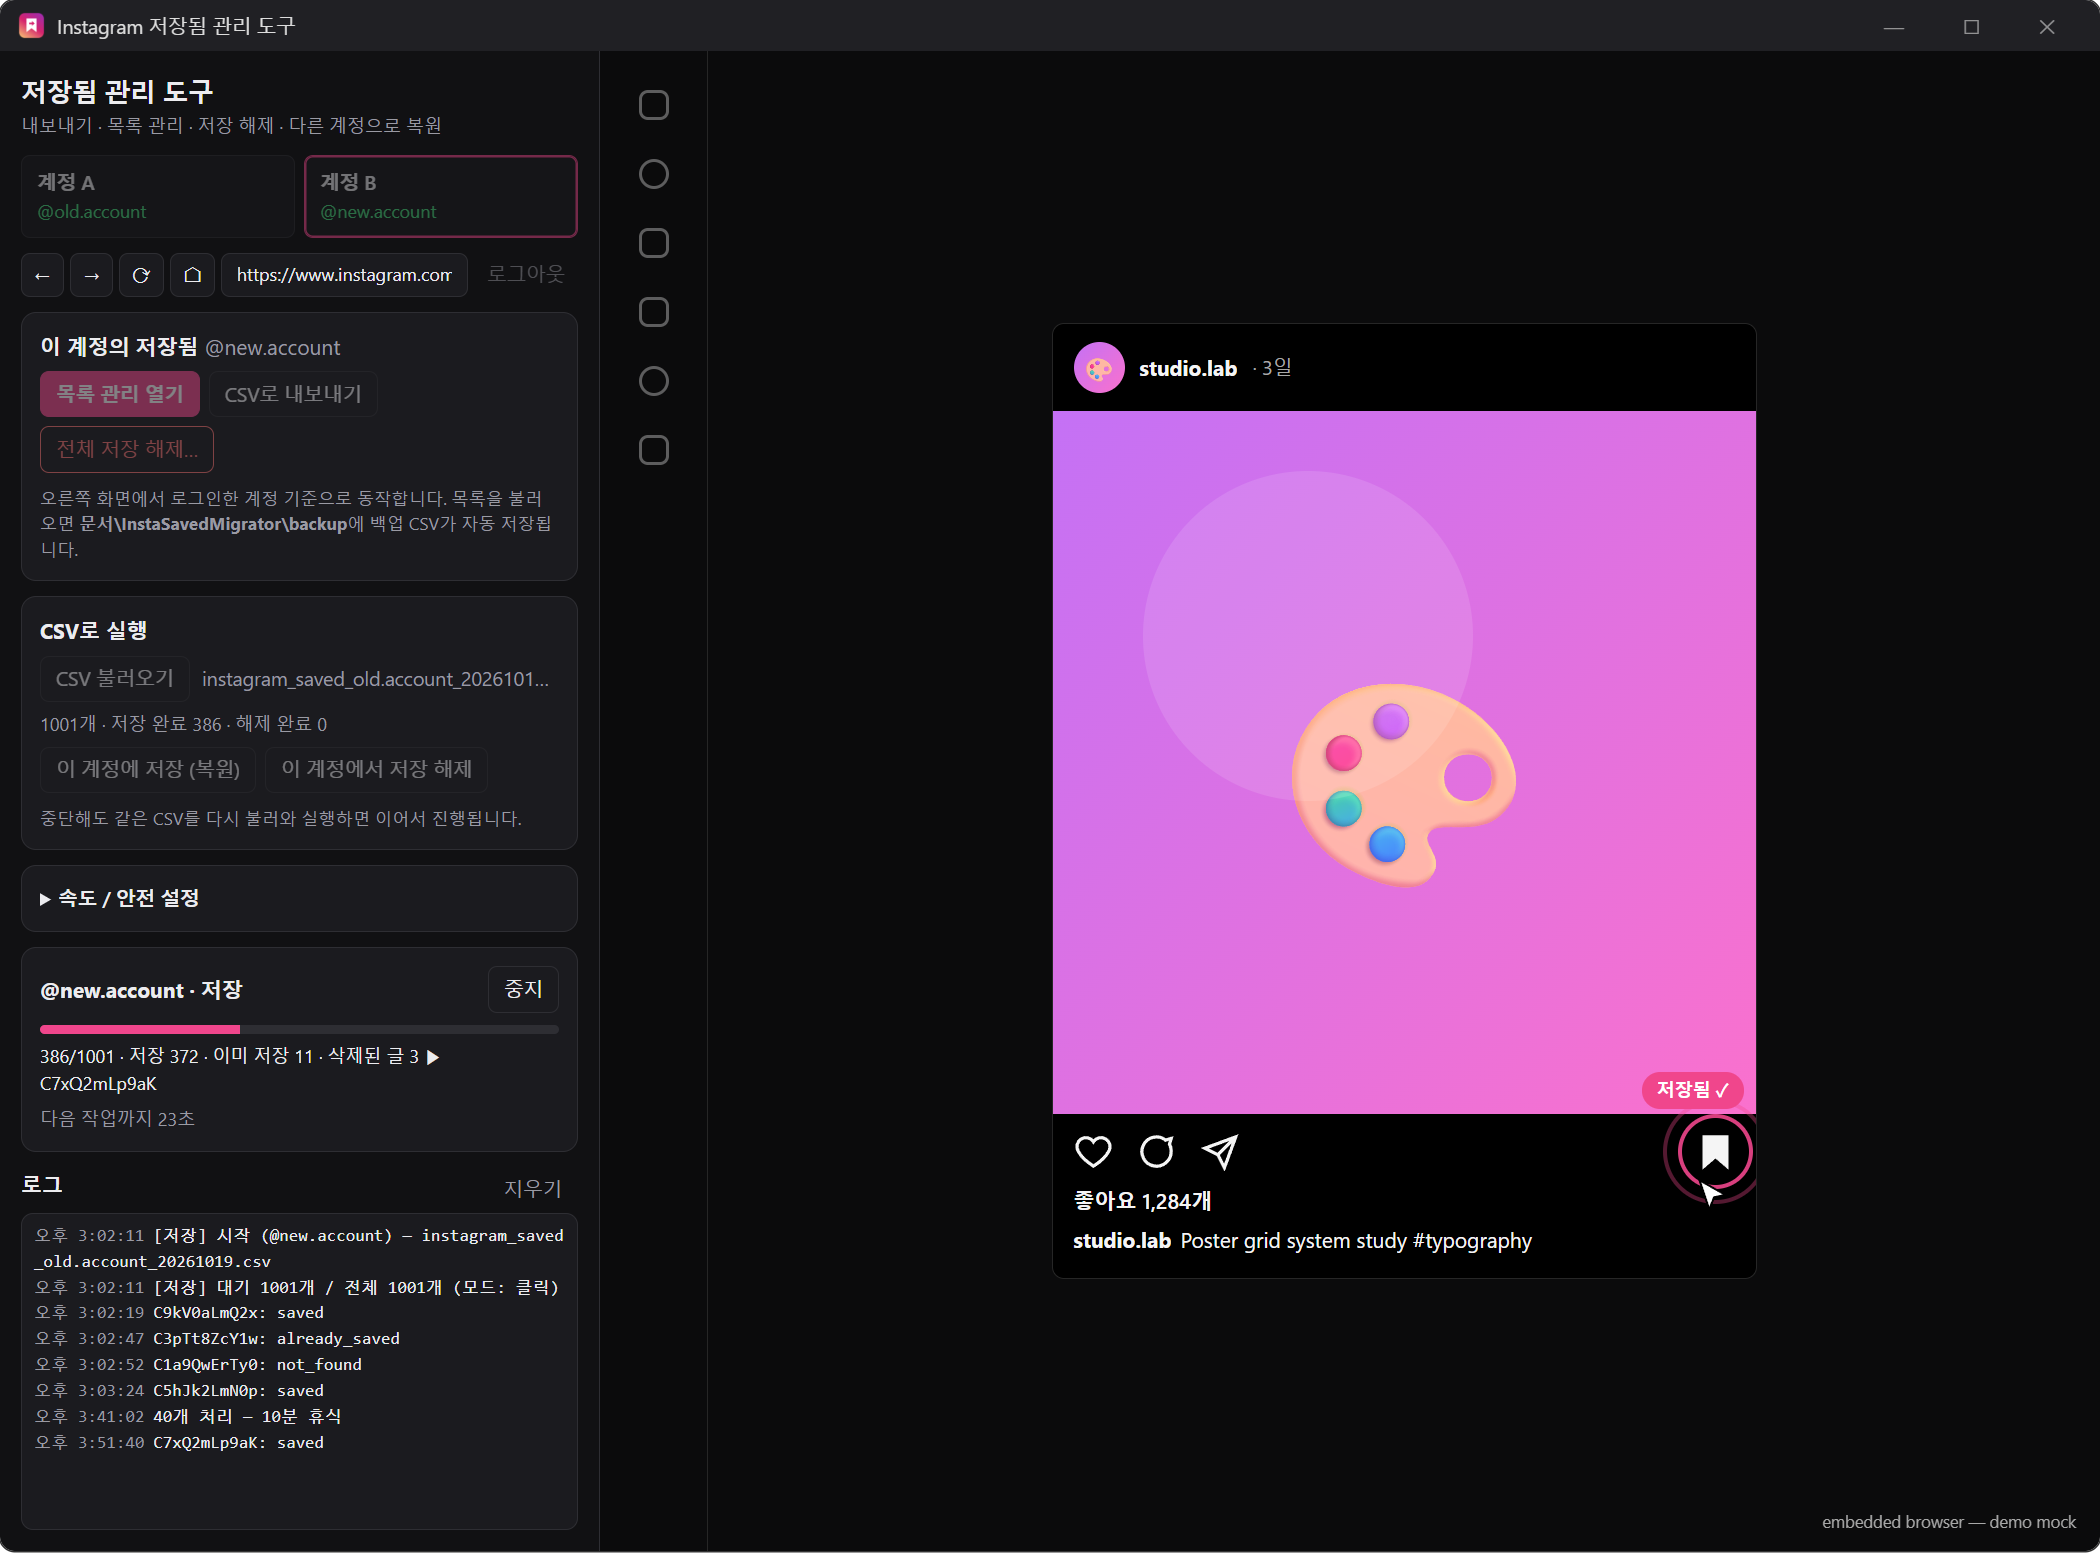
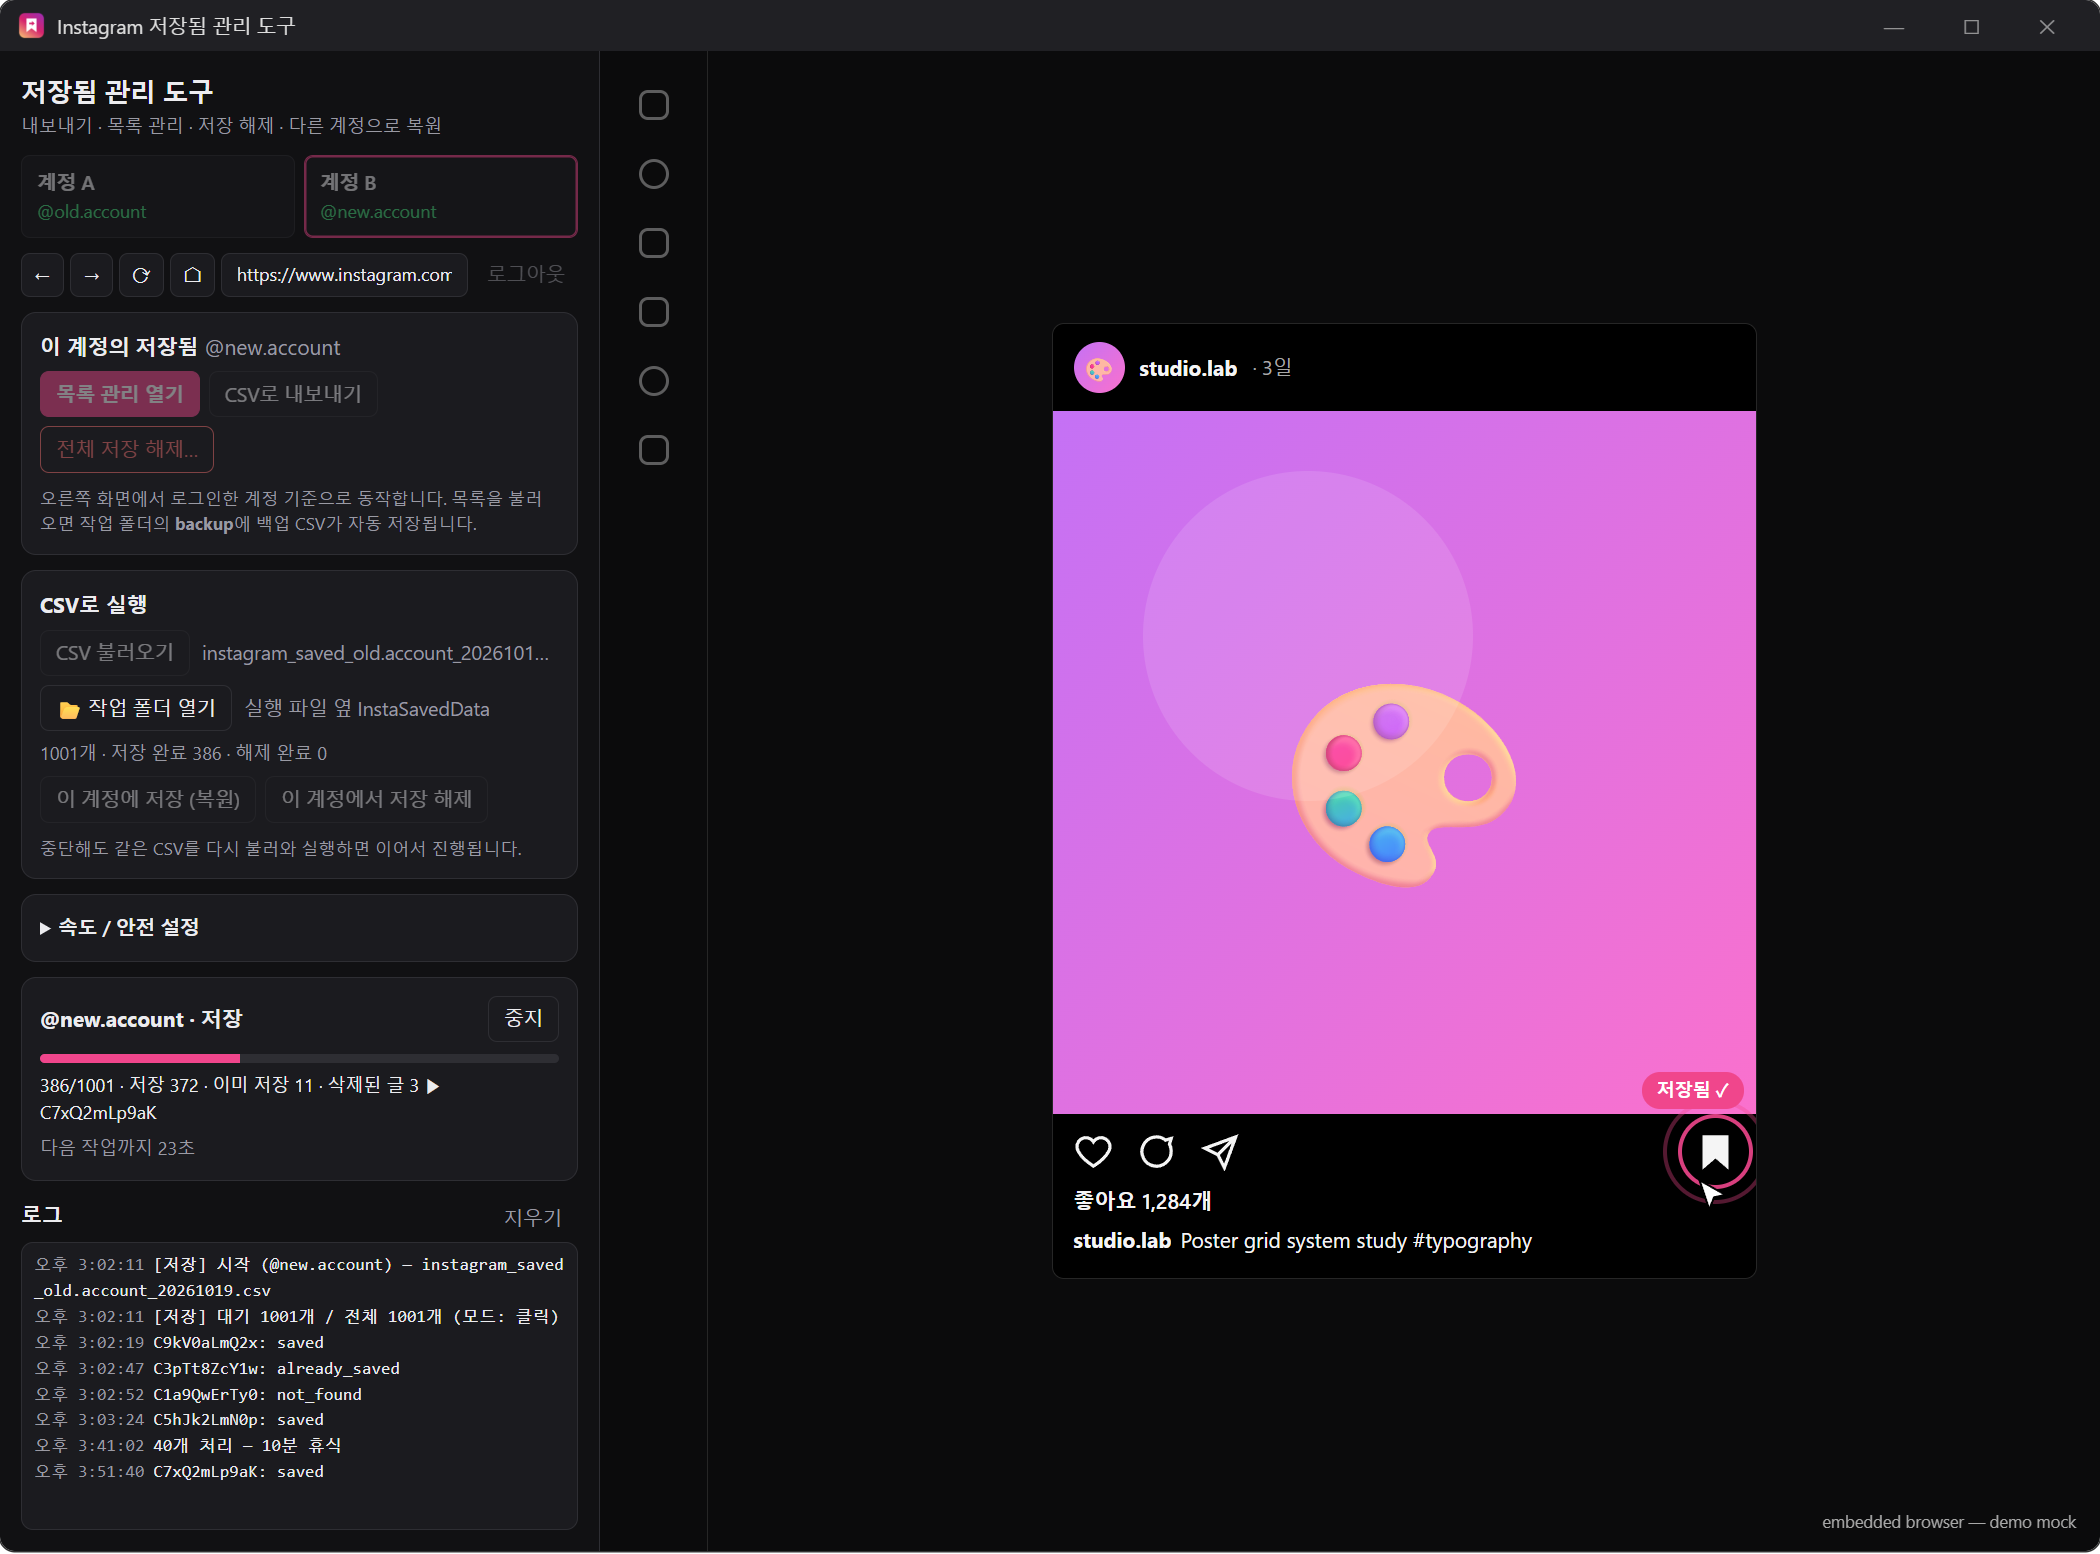
Keep work files in an InstaSavedData folder next to the app
Backups, selection job lists and exports used to go to
Documents\InstaSavedMigrator, which was hard to find.

- Store them in InstaSavedData beside the portable .exe (using
  PORTABLE_EXECUTABLE_DIR, since the portable build runs from a temp
  folder), the install folder, or the project folder in development;
  fall back to Documents\InstaSavedData if that isn't writable
- Default the export/open dialogs to that folder (exports/ subfolder)
- Add an "Open work folder" button and show the full path in the panel
- ISM_USER_DATA env var overrides the session folder for testing
- Update README and screenshots

Changed region(s): [[0.0, 0.3707, 0.2786, 0.9575], [0.031, 0.3089, 0.2167, 0.3398]]

diff --git a/src/main.js b/src/main.js
@@ -7,7 +7,7 @@ const { fetchSaved, writeSavedCsv } = require('./saved');
 const { runBatch, previewCsv, ACTIONS, initApiStore } = require('./runner');
 
 // 개발 실행(npm start)과 빌드된 exe가 같은 로그인 세션을 쓰도록 데이터 경로 고정
-app.setPath('userData', path.join(app.getPath('appData'), 'insta-saved-migrator'));
+app.setPath('userData', process.env.ISM_USER_DATA || path.join(app.getPath('appData'), 'insta-saved-migrator')); // ISM_USER_DATA: 테스트용 분리 경로
 
 // Instagram이 "Electron" UA를 다르게 취급하지 않도록 일반 Chrome UA로 보이게 함
 const appToken = app.getName().replace(/[.*+?^${}()|[\]\\]/g, '\\$&');
@@ -154,8 +154,27 @@ function stamp(withTime = true) {
   return withTime ? `${day}_${p(d.getHours())}${p(d.getMinutes())}${p(d.getSeconds())}` : day;
 }
 
+// 작업 파일(백업·작업 목록·내보내기)은 실행 파일 옆 InstaSavedData 폴더에 모은다.
+// portable exe는 임시 폴더에 풀려 실행되므로 원래 exe 위치(PORTABLE_EXECUTABLE_DIR)를 쓴다.
+let dataDir = null;
+function resolveDataDir() {
+  const base = process.env.PORTABLE_EXECUTABLE_DIR
+    || (app.isPackaged ? path.dirname(process.execPath) : app.getAppPath());
+  const candidates = [path.join(base, 'InstaSavedData'), path.join(app.getPath('documents'), 'InstaSavedData')];
+  for (const dir of candidates) {
+    try {
+      fs.mkdirSync(dir, { recursive: true });
+      const probe = path.join(dir, '.write-test');
+      fs.writeFileSync(probe, '');
+      fs.unlinkSync(probe);
+      return dir;
+    } catch { /* 쓰기 불가(예: Program Files) → 다음 후보 */ }
+  }
+  return candidates[candidates.length - 1];
+}
+
 function workDir(sub) {
-  const dir = path.join(app.getPath('documents'), 'InstaSavedMigrator', sub);
+  const dir = sub ? path.join(dataDir, sub) : dataDir;
   fs.mkdirSync(dir, { recursive: true });
   return dir;
 }
@@ -266,13 +285,14 @@ handle('logout', async (key) => {
 });
 handle('stop', () => { if (job) { job.stopped = true; log('중지 요청됨 — 현재 단계가 끝나면 멈춥니다.'); } });
 handle('reveal', (p) => shell.showItemInFolder(p));
+handle('open-data-dir', () => shell.openPath(workDir()));
 handle('manager', (open) => setManager(!!open));
 
 handle('export', async (key) => {
   const st = await requireLogin(key);
   const { canceled, filePath } = await dialog.showSaveDialog(win, {
     title: '저장됨 CSV 저장 위치',
-    defaultPath: path.join(app.getPath('documents'), `instagram_saved_${st.username || st.uid}_${stamp(false)}.csv`),
+    defaultPath: path.join(workDir('exports'), `instagram_saved_${st.username || st.uid}_${stamp(false)}.csv`),
     filters: [{ name: 'CSV', extensions: ['csv'] }],
   });
   if (canceled || !filePath) return null;
@@ -294,7 +314,7 @@ handle('list-fetch', (key) => fetchList(key));
 handle('list-open-csv', async () => {
   const { canceled, filePaths } = await dialog.showOpenDialog(win, {
     title: '목록으로 볼 CSV 선택',
-    defaultPath: app.getPath('documents'),
+    defaultPath: workDir(),
     filters: [{ name: 'CSV', extensions: ['csv'] }],
     properties: ['openFile'],
   });
@@ -305,7 +325,7 @@ handle('list-open-csv', async () => {
 handle('save-csv', async ({ rows, name }) => {
   const { canceled, filePath } = await dialog.showSaveDialog(win, {
     title: '선택 항목 CSV 저장',
-    defaultPath: path.join(app.getPath('documents'), name || `instagram_saved_selection_${stamp()}.csv`),
+    defaultPath: path.join(workDir('exports'), name || `instagram_saved_selection_${stamp()}.csv`),
     filters: [{ name: 'CSV', extensions: ['csv'] }],
   });
   if (canceled || !filePath) return null;
@@ -317,7 +337,7 @@ handle('save-csv', async ({ rows, name }) => {
 handle('load-csv', async () => {
   const { canceled, filePaths } = await dialog.showOpenDialog(win, {
     title: '실행할 CSV 선택',
-    defaultPath: app.getPath('documents'),
+    defaultPath: workDir(),
     filters: [{ name: 'CSV', extensions: ['csv'] }],
     properties: ['openFile'],
   });
@@ -361,6 +381,7 @@ handle('unsave-all', async ({ key, opts }) => {
 
 // ---------- App ----------
 app.whenReady().then(() => {
+  dataDir = resolveDataDir();
   initApiStore(path.join(app.getPath('userData'), 'api-endpoints.json'));
   win = new BrowserWindow({
     width: 1480,
@@ -379,6 +400,7 @@ app.whenReady().then(() => {
   win.on('resize', layout);
   win.webContents.on('did-finish-load', () => {
     send('active', active);
+    send('data-dir', dataDir);
     refreshStatus('a');
     refreshStatus('b');
   });

diff --git a/src/ui/index.html b/src/ui/index.html
@@ -41,7 +41,7 @@
         <button id="btn-export" class="lockable">CSV로 내보내기</button>
         <button id="btn-unsave-all" class="danger lockable">전체 저장 해제…</button>
       </div>
-      <p class="hint">오른쪽 화면에서 로그인한 계정 기준으로 동작합니다. 목록을 불러오면 <b>문서\InstaSavedMigrator\backup</b>에 백업 CSV가 자동 저장됩니다.</p>
+      <p class="hint">오른쪽 화면에서 로그인한 계정 기준으로 동작합니다. 목록을 불러오면 작업 폴더의 <b>backup</b>에 백업 CSV가 자동 저장됩니다.</p>
     </section>
 
     <section class="card">
@@ -49,6 +49,10 @@
       <div class="row">
         <button id="btn-load" class="lockable">CSV 불러오기</button>
         <span id="csv-name" class="muted ellipsis">선택된 파일 없음</span>
+      </div>
+      <div class="row">
+        <button id="btn-data-dir" title="백업·작업 목록·내보내기 파일이 모이는 폴더">📂 작업 폴더 열기</button>
+        <span id="data-dir" class="muted ellipsis">실행 파일 옆 InstaSavedData</span>
       </div>
       <div class="stat muted" id="csv-stat"></div>
       <div class="btns">

diff --git a/src/ui/app.js b/src/ui/app.js
@@ -108,6 +108,7 @@ api.on('job-progress', (p) => {
 });
 api.on('countdown', ({ sec, label }) => { $$('.countdown').forEach((e) => { e.textContent = sec > 0 ? `${label} ${sec}초` : ''; }); });
 api.on('csv-file', showCsvFile);
+api.on('data-dir', (dir) => { $('#data-dir').textContent = dir; $('#data-dir').title = dir; });
 
 function showCsvFile({ path, summary }) {
   csvLoaded = true;
@@ -134,6 +135,7 @@ $$('.stop').forEach((b) => b.addEventListener('click', () => call('stop')));
 $('#clear-log').addEventListener('click', () => { $('#log').innerHTML = ''; });
 
 $('#btn-export').addEventListener('click', () => call('export', active));
+$('#btn-data-dir').addEventListener('click', () => call('open-data-dir'));
 $('#btn-unsave-all').addEventListener('click', async () => {
   const res = await call('unsave-all', { key: active, opts: opts() });
   if (res) applyBatchResult(active, 'unsave', res);

diff --git a/README.md b/README.md
@@ -173,7 +173,7 @@ The number of cards per row follows the window width. When you resize, the rows 
 - **선택 항목 저장** (_Save selected_). This is how you move a selection to the other account.
 - **선택 항목 CSV 저장** (_Export selected to CSV_)
 
-Each selection run is written to `Documents\InstaSavedMigrator\jobs\…csv`, so you can resume it later with **CSV 불러오기** (_Load CSV_).
+Each selection run is written to `InstaSavedData\jobs\…csv` next to the app, so you can resume it later with **CSV 불러오기** (_Load CSV_). **📂 작업 폴더 열기** (_Open work folder_) opens that folder.
 
 <img src="docs/images/manager-fetching.png" alt="Loading the list: progress shown at the top" width="100%" />
 
@@ -218,7 +218,7 @@ flowchart LR
     B["Embedded browser<br/>Account B session"]
   end
   IG[("instagram.com")]
-  Disk[("CSV · progress · backups<br/>Documents\\InstaSavedMigrator")]
+  Disk[("CSV · progress · backups<br/>InstaSavedData (next to the exe)")]
 
   UI <-- IPC --> Main
   Main -- "run in page / mouse events" --> A
@@ -249,10 +249,13 @@ sequenceDiagram
 
 ## 📁 Files the app creates
 
+Work files go into an **`InstaSavedData` folder next to the app**: beside the `.exe` for the portable build, or in the install folder for the installer. If that folder isn't writable, `Documents\InstaSavedData` is used instead. The **📂 작업 폴더 열기** (_Open work folder_) button opens it, and the panel shows its full path.
+
 | Location | What |
 |---|---|
-| `Documents\InstaSavedMigrator\backup\saved_<account>_<time>.csv` | Written **every time** a list is loaded. This is your safety net |
-| `Documents\InstaSavedMigrator\jobs\<save\|unsave>_<account>_<time>.csv` | The list of posts for a selection run. Load it again to resume |
+| `InstaSavedData\backup\saved_<account>_<time>.csv` | Written **every time** a list is loaded. This is your safety net |
+| `InstaSavedData\jobs\<save\|unsave>_<account>_<time>.csv` | The list of posts for a selection run. Load it again to resume |
+| `InstaSavedData\exports\` | Default location for **Export to CSV** and **Export selected** |
 | `<csv>.restore-progress.json` / `<csv>.unsave-progress.json` | Per-post progress used for resuming |
 | `<csv>.restore-result.csv` / `<csv>.unsave-result.csv` | Final report with status, message, and time for each post |
 | `%APPDATA%\insta-saved-migrator\` | Browser sessions (your logins) and remembered API addresses. **Log out** in the app to clear a session |
@@ -524,7 +527,7 @@ Automating actions may go against Instagram's Terms of Use and can lead to tempo
 - **선택 항목 저장**: 선택한 것을 다른 계정으로 옮길 때 씁니다
 - **선택 항목 CSV 저장**
 
-선택 작업은 매번 `문서\InstaSavedMigrator\jobs\…csv`로 저장되므로, 나중에 **CSV 불러오기**로 이어서 할 수 있습니다.
+선택 작업은 매번 앱 옆 `InstaSavedData\jobs\…csv`로 저장되므로, 나중에 **CSV 불러오기**로 이어서 할 수 있습니다. **📂 작업 폴더 열기**로 그 폴더를 바로 열 수 있습니다.
 
 <img src="docs/images/manager-fetching.png" alt="목록 불러오는 중: 상단에 진행 상황 표시" width="100%" />
 
@@ -569,7 +572,7 @@ flowchart LR
     B["내장 브라우저<br/>계정 B 세션"]
   end
   IG[("instagram.com")]
-  Disk[("CSV · 진행 상황 · 백업<br/>문서\\InstaSavedMigrator")]
+  Disk[("CSV · 진행 상황 · 백업<br/>InstaSavedData (exe 옆)")]
 
   UI <-- IPC --> Main
   Main -- "페이지 안 실행 / 마우스 이벤트" --> A
@@ -600,10 +603,13 @@ sequenceDiagram
 
 ## 📁 앱이 만드는 파일
 
+작업 파일은 **앱 옆의 `InstaSavedData` 폴더**에 모입니다. portable은 `.exe`가 있는 폴더, 설치형은 설치 폴더 기준입니다. 그 폴더에 쓸 수 없으면 `문서\InstaSavedData`를 씁니다. 패널의 **📂 작업 폴더 열기** 버튼으로 바로 열 수 있고, 패널에 전체 경로도 표시됩니다.
+
 | 위치 | 내용 |
 |---|---|
-| `문서\InstaSavedMigrator\backup\saved_<계정>_<시각>.csv` | 목록을 불러올 **때마다** 자동 저장. 안전장치입니다 |
-| `문서\InstaSavedMigrator\jobs\<save\|unsave>_<계정>_<시각>.csv` | 선택 작업 목록. 다시 불러오면 이어서 진행 |
+| `InstaSavedData\backup\saved_<계정>_<시각>.csv` | 목록을 불러올 **때마다** 자동 저장. 안전장치입니다 |
+| `InstaSavedData\jobs\<save\|unsave>_<계정>_<시각>.csv` | 선택 작업 목록. 다시 불러오면 이어서 진행 |
+| `InstaSavedData\exports\` | **CSV로 내보내기**, **선택 항목 CSV 저장**의 기본 저장 위치 |
 | `<csv>.restore-progress.json` / `<csv>.unsave-progress.json` | 이어하기용 게시물별 진행 상황 |
 | `<csv>.restore-result.csv` / `<csv>.unsave-result.csv` | 게시물별 상태·메시지·시각을 담은 최종 보고서 |
 | `%APPDATA%\insta-saved-migrator\` | 브라우저 세션(로그인 정보)과 기억한 API 주소. 앱의 **로그아웃** 버튼으로 세션 삭제 |
